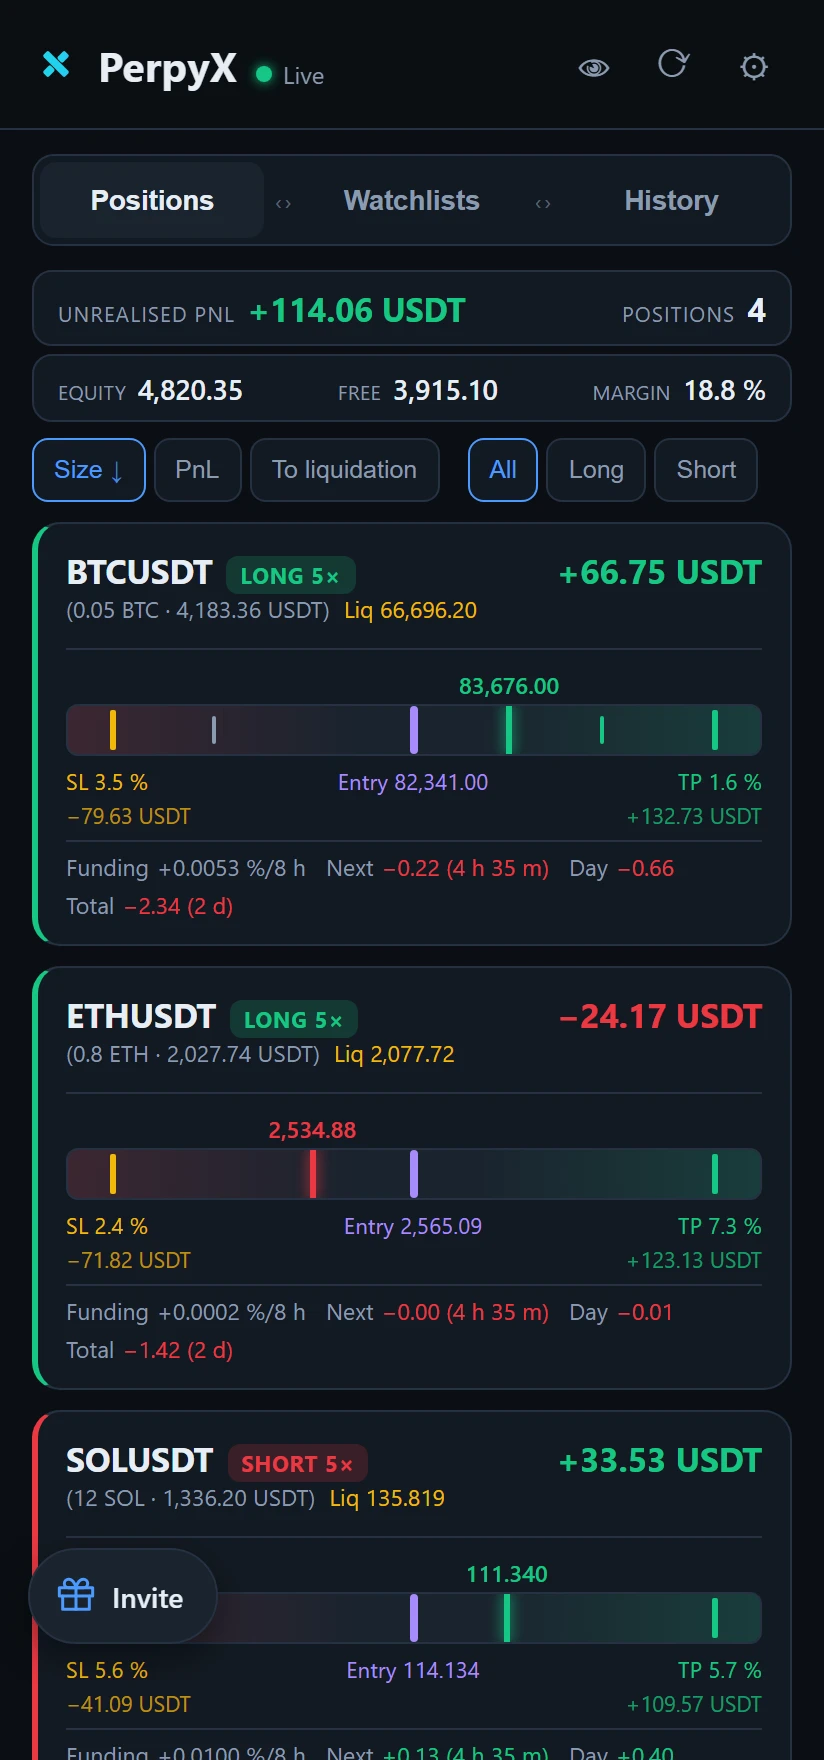
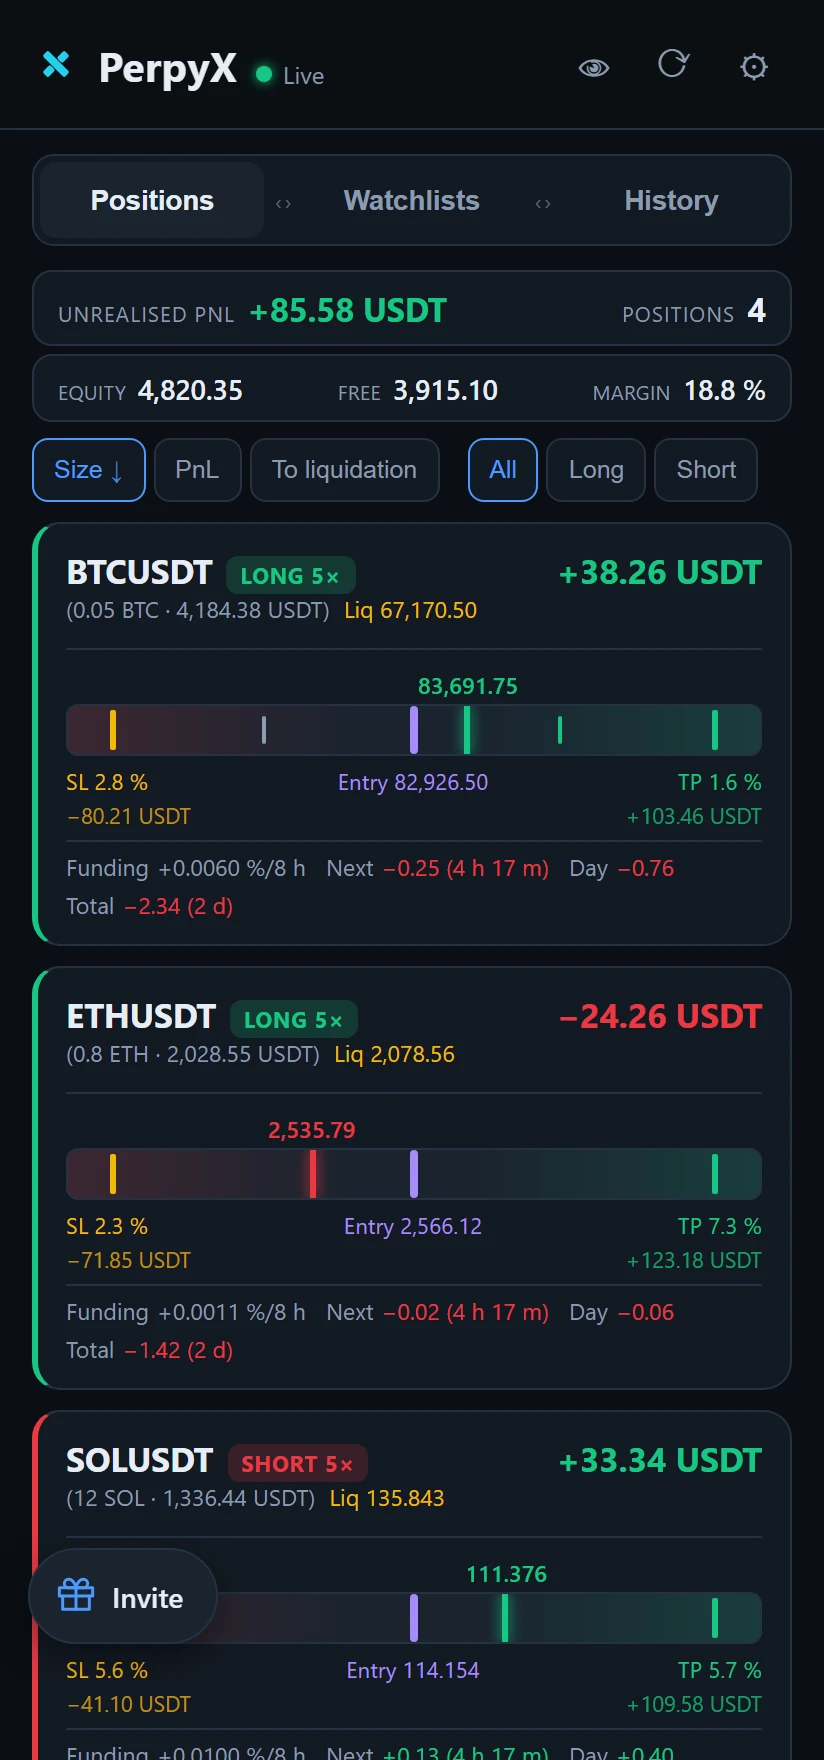
Web: grafy bez prekryvu stitku, plneni na svickach, Fold samostatne, bez snimku alarmu
- snimky-web.py: plneni pozice BTC lezi uvnitr skutecnych svicek (vstup
  je jejich prumer), graf odsazeny od stitku vpravo, limitka mezi vstupem
  a SL, snimek okna alarmu zrusen.
- Web: Fold jako jediny snimek s popiskem o sirokem displeji.

Claude-Session: https://claude.ai/code/session_015bSMKh62UKs2XyHsFmV9vj

diff --git a/web/public/index.html b/web/public/index.html
@@ -10,10 +10,10 @@
 <link rel="apple-touch-icon" href="/icon-192.png">
 <meta property="og:title" content="PerpyX — your perpetuals at a glance">
 <meta property="og:description" content="A superfast position monitor for Android. Live PnL, SL/TP ladders, funding, push price alerts, live watchlists, trade history and a touch-first chart.">
-<meta property="og:image" content="https://perpyx.com/img/graf-fold.webp?v=3">
+<meta property="og:image" content="https://perpyx.com/img/graf-fold.webp?v=4">
 <meta property="og:type" content="website">
 <link rel="canonical" href="https://perpyx.com/">
-<link rel="stylesheet" href="/style.css?v=9">
+<link rel="stylesheet" href="/style.css?v=10">
 </head>
 <body>
 
@@ -78,8 +78,8 @@
         </div>
       </div>
       <div class="shots">
-        <div class="phone back"><img src="/img/trhy.webp?v=3" width="824" height="1760" alt="PerpyX watchlist tiles with live prices and 24-hour sparklines"></div>
-        <div class="phone front"><img src="/img/pozice.webp?v=3" width="824" height="1760" alt="PerpyX positions screen with live PnL and stop-loss / take-profit ladders"></div>
+        <div class="phone back"><img src="/img/trhy.webp?v=4" width="824" height="1760" alt="PerpyX watchlist tiles with live prices and 24-hour sparklines"></div>
+        <div class="phone front"><img src="/img/pozice.webp?v=4" width="824" height="1760" alt="PerpyX positions screen with live PnL and stop-loss / take-profit ladders"></div>
       </div>
     </div>
   </section>
@@ -149,17 +149,17 @@
         <p>Designed and tested on a foldable: a compact list on the cover screen, a full-width chart when you open it up.</p>
       </div>
       <div class="gallery tri">
-        <figure><div class="phone"><img src="/img/pozice.webp?v=3" width="824" height="1760" loading="lazy" alt="Positions list with live PnL and SL/TP ladders"></div><figcaption>Positions</figcaption></figure>
-        <figure><div class="phone"><img src="/img/trhy.webp?v=3" width="824" height="1760" loading="lazy" alt="Watchlist tiles with live prices, sparklines and open positions"></div><figcaption>Watchlists</figcaption></figure>
-        <figure><div class="phone"><img src="/img/graf.webp?v=3" width="824" height="1760" loading="lazy" alt="Chart on a phone screen"></div><figcaption>Chart</figcaption></figure>
+        <figure><div class="phone"><img src="/img/pozice.webp?v=4" width="824" height="1760" loading="lazy" alt="Positions list with live PnL and SL/TP ladders"></div><figcaption>Positions</figcaption></figure>
+        <figure><div class="phone"><img src="/img/trhy.webp?v=4" width="824" height="1760" loading="lazy" alt="Watchlist tiles with live prices, sparklines and open positions"></div><figcaption>Watchlists</figcaption></figure>
+        <figure><div class="phone"><img src="/img/graf.webp?v=4" width="824" height="1760" loading="lazy" alt="Chart on a phone screen"></div><figcaption>Chart</figcaption></figure>
       </div>
       <div class="gallery tri dva">
-        <figure><div class="phone"><img src="/img/historie-seznam.webp?v=4" width="824" height="1760" loading="lazy" alt="Trade history with every partial exit on its own line and the total"></div><figcaption>Trade history</figcaption></figure>
-        <figure><div class="phone"><img src="/img/historie.webp?v=3" width="824" height="1760" loading="lazy" alt="A closed trade on the chart, entries and exits marked, the rest faded out"></div><figcaption>Trade on the chart</figcaption></figure>
+        <figure><div class="phone"><img src="/img/historie-seznam.webp?v=5" width="824" height="1760" loading="lazy" alt="Trade history with every partial exit on its own line and the total"></div><figcaption>Trade history</figcaption></figure>
+        <figure><div class="phone"><img src="/img/historie.webp?v=4" width="824" height="1760" loading="lazy" alt="A closed trade on the chart, entries and exits marked, the rest faded out"></div><figcaption>Trade on the chart</figcaption></figure>
       </div>
-      <div class="gallery duo">
-        <figure><div class="phone"><img src="/img/graf-fold.webp?v=3" width="1346" height="1682" loading="lazy" alt="Chart on an unfolded screen with entry, SL, TP, orders and indicators"></div><figcaption>Chart, unfolded</figcaption></figure>
-        <figure><div class="phone"><img src="/img/alarm.webp?v=3" width="1346" height="1682" loading="lazy" alt="Setting a price alert on the chart"></div><figcaption>Price alert</figcaption></figure>
+      <div class="gallery duo solo">
+        <figure><div class="phone"><img src="/img/graf-fold.webp?v=4" width="1346" height="1682" loading="lazy" alt="Chart on an unfolded screen with entry, SL, TP, orders and indicators"></div>
+          <figcaption><strong>Optimized for the wide screen.</strong> Unfold your phone and the chart gets the whole display — more candles, every level and label clear.</figcaption></figure>
       </div>
     </div>
   </section>

diff --git a/web/public/style.css b/web/public/style.css
@@ -148,6 +148,10 @@ h2 { font-size: clamp(1.7rem, 3.4vw, 2.3rem); line-height: 1.15; margin: 0 0 12p
 .gallery { display: grid; gap: 20px; align-items: start; }
 .gallery.tri { grid-template-columns: repeat(3, 1fr); }
 .gallery.duo { grid-template-columns: 1fr 1fr; margin-top: 28px; }
+/* Jediný snímek z rozevřeného Foldu, uprostřed a s delším popiskem. */
+.gallery.duo.solo { grid-template-columns: minmax(0, 620px); justify-content: center; }
+.gallery.duo.solo figcaption { max-width: 520px; margin-inline: auto; line-height: 1.5; }
+.gallery.duo.solo figcaption strong { color: var(--text); }
 /* Dva snímky telefonu ve stejné velikosti jako v řádku po třech, uprostřed. */
 .gallery.tri.dva { grid-template-columns: repeat(2, calc((100% - 40px) / 3)); justify-content: center; margin-top: 28px; }
 .gallery figure { margin: 0; }

diff --git a/tools/snimky-web.py b/tools/snimky-web.py
@@ -62,10 +62,30 @@ if PRO_ZAHLAVI:
     ]
 TED = int(time.time() * 1000)
 pozice, prikazy, plneni = [], [], []
+def svicka_v(cas):
+    # 4h svíčka BTC, do které čas padne
+    return max((s for s in svicky if s[0] <= cas), key=lambda s: s[0])
+
+
 for sym, strana, vel, k, sl, tp, dm in NAVRH:
     mark = ceny[sym]
     vstup = round(mark * k, dm)
     smer = 1 if strana == 'Buy' else -1
+    # Dvě plnění, která pozici otevřela (dohromady přesně její velikost).
+    # U BTC (jediný pár v grafu na snímcích) leží **uvnitř skutečných
+    # svíček** a vstup je jejich vážený průměr — jinak trojúhelník visel
+    # v grafu mimo svíčky.
+    davky = []
+    for i, (hod, podil, odchylka) in enumerate(((52, 0.6, 1.004), (19, 0.4, 0.994))):
+        cas = TED - hod * 3600000
+        if sym == 'BTCUSDT':
+            _, hi, lo = svicka_v(cas)
+            cena = round(lo + (0.35 if i else 0.55) * (hi - lo), dm)
+        else:
+            cena = round(vstup * odchylka, dm)
+        davky.append((cas, cena, round(vel * podil, 6), i))
+    if sym == 'BTCUSDT':
+        vstup = round(sum(c * q for _, c, q, _ in davky) / vel, dm)
     pozice.append({
         'symbol': sym, 'side': strana, 'size': str(vel), 'avgPrice': str(vstup),
         'markPrice': str(mark), 'unrealisedPnl': f'{(mark - vstup) * vel * smer:.4f}',
@@ -74,18 +94,18 @@ for sym, strana, vel, k, sl, tp, dm in NAVRH:
         'takeProfit': str(round(vstup * tp, dm)), 'positionIdx': 0,
         'createdTime': str(TED - 90 * 86400000),
     })
-    # Dvě plnění, která pozici otevřela (dohromady přesně její velikost).
-    for i, (hod, podil, odchylka) in enumerate(((52, 0.6, 1.004), (19, 0.4, 0.994))):
+    for cas, cena, mnozstvi, i in davky:
         plneni.append({'symbol': sym, 'side': strana, 'execType': 'Trade',
-                       'execPrice': str(round(vstup * odchylka, dm)), 'orderId': f'{sym}-{i}',
-                       'execQty': str(round(vel * podil, 6)), 'execTime': str(TED - hod * 3600000)})
+                       'execPrice': str(cena), 'orderId': f'{sym}-{i}',
+                       'execQty': str(mnozstvi), 'execTime': str(cas)})
     if sym == 'BTCUSDT':
         prikazy += [
             {'orderId': 'p1', 'symbol': sym, 'side': 'Sell', 'orderType': 'Market',
              'stopOrderType': 'PartialTakeProfit', 'triggerPrice': str(round(vrch - 0.3 * rozpeti, 1)),
              'qty': '0.02', 'cumExecQty': '0', 'reduceOnly': True, 'createdTime': str(TED - 7200000)},
             {'orderId': 'p2', 'symbol': sym, 'side': 'Buy', 'orderType': 'Limit',
-             'price': str(round(dno + 0.14 * rozpeti, 1)), 'qty': '0.02', 'cumExecQty': '0',
+             # mezi vstupem a SL — ať se štítky limitky a SL nekryjí
+             'price': str(round(vstup - 0.5 * (vstup - vstup * sl), 1)), 'qty': '0.02', 'cumExecQty': '0',
              'reduceOnly': False, 'createdTime': str(TED - 3600000)},
         ]
 
@@ -140,7 +160,7 @@ kresby = [
      'style': {'color': '#f5c542', 'width': 1, 'opacity': 1}},
 ]
 
-# Alarm na BTC kousek nad aktuální cenou — kvůli snímku okna alarmu.
+# Alarm na BTC kousek nad aktuální cenou — v grafu je vidět jeho hladina.
 alarm_cena = round(ceny['BTCUSDT'] * 1.012, 1)
 alarmy_data = [{'id': 'snimek1', 'symbol': 'BTCUSDT', 'typ': 'cena', 'price': alarm_cena,
                 'smer': 'up', 'opakovat': False, 'platnostDnu': 7, 'aktivni': True, 'zprava': 'Breakout'}]
@@ -290,6 +310,15 @@ def snimek(nazev):
     print('uloženo', nazev)
 
 
+def odsad_graf(px, svice=None):
+    # Svíčky končí před štítky vpravo (PnL, TP, SL…), ať je nepřekrývají —
+    # jen pro snímky, v aplikaci zůstává výchozí odsazení.
+    if svice:
+        ev(f"window.__graf.setBarSpace({svice})")
+    ev(f"window.__graf.setOffsetRightDistance({px}); window.__graf.scrollToRealTime()")
+    time.sleep(0.8)
+
+
 def spust(sirka, vyska):
     p.prikaz('Emulation.setDeviceMetricsOverride', width=sirka, height=vyska,
              deviceScaleFactor=2, mobile=True)
@@ -310,6 +339,7 @@ snimek('pozice.webp')
 # 2) Graf BTC s kresbami a indikátory
 ev("""[...document.querySelectorAll('.position')].find((k) => k.textContent.includes('BTCUSDT')).click()""")
 time.sleep(6)
+odsad_graf(130, 5)
 snimek('graf.webp')
 
 # 3) Trhy
@@ -323,20 +353,8 @@ snimek('trhy.webp')
 spust(673, 841)
 ev("""[...document.querySelectorAll('.position')].find((k) => k.textContent.includes('BTCUSDT')).click()""")
 time.sleep(6)
+odsad_graf(170)
 snimek('graf-fold.webp')
-
-# 5) Okno alarmu na rozevřeném Foldu — klepnutím na hladinu alarmu
-p.prikaz('Emulation.setTouchEmulationEnabled', enabled=True, maxTouchPoints=5)
-y = ev("""(() => { const v = document.getElementById('drawLayer').getBoundingClientRect();
-  const yy = window.__graf.convertToPixel({ value: %s }, { paneId: 'candle_pane' });
-  return v.top + (Array.isArray(yy) ? yy[0].y : yy.y); })()""" % alarm_cena)
-bod = [{'x': 300, 'y': y, 'radiusX': 10, 'radiusY': 10, 'force': 1, 'id': 1}]
-p.prikaz('Input.dispatchTouchEvent', type='touchStart', touchPoints=bod)
-time.sleep(0.05)
-p.prikaz('Input.dispatchTouchEvent', type='touchEnd', touchPoints=[])
-time.sleep(1.2)
-print('okno alarmu:', ev("!document.getElementById('sheetAlarm').hidden"))
-snimek('alarm.webp')
 
 # 6) Historie: seznam (obchod s částečnými výstupy) a prohlídka obchodu
 #    v grafu — obchod uprostřed, okolí ztlumené.
